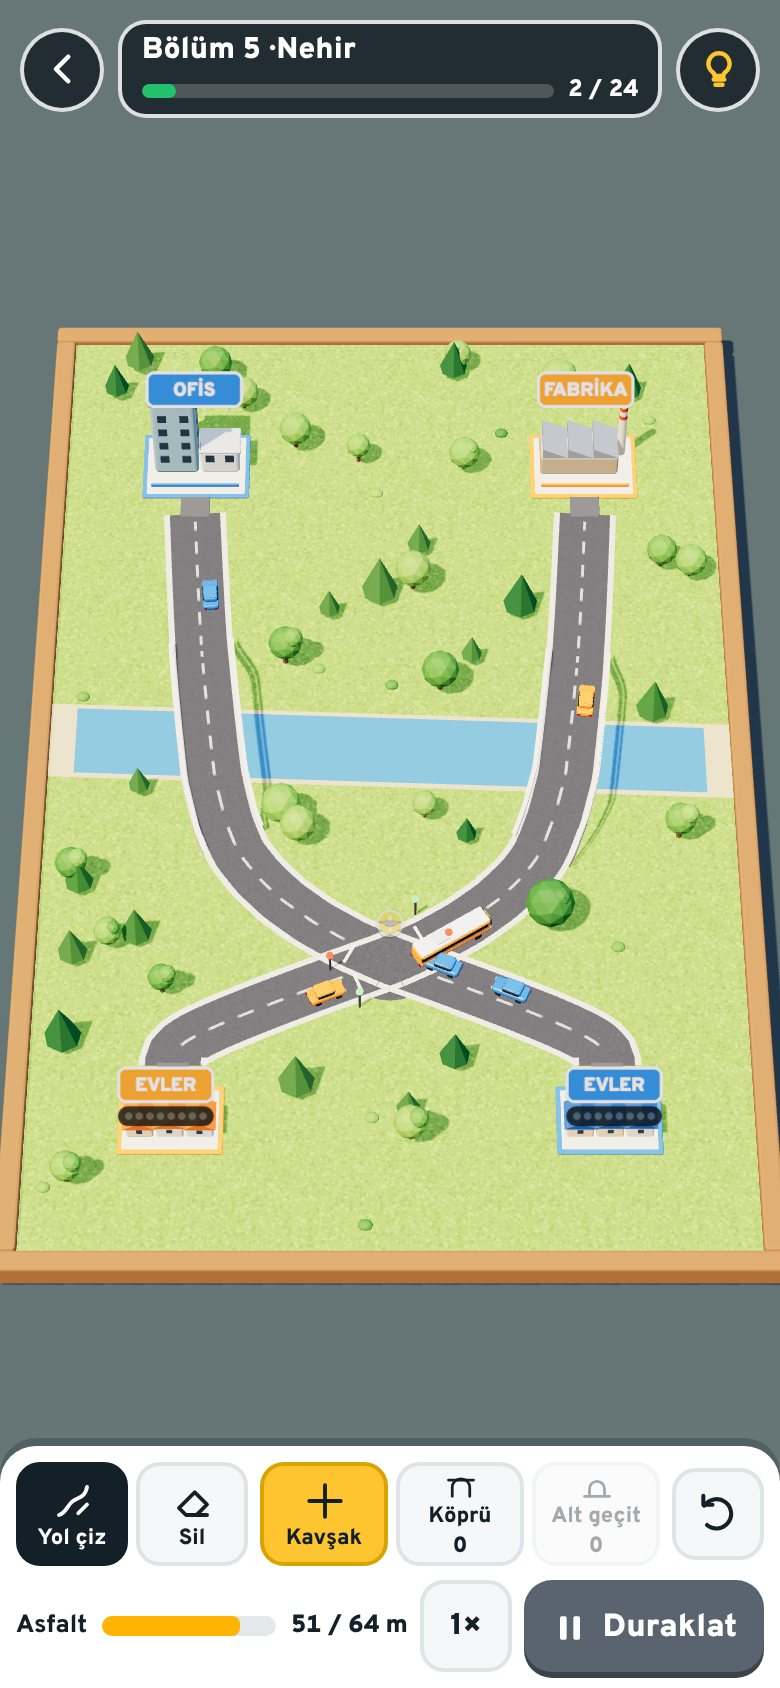
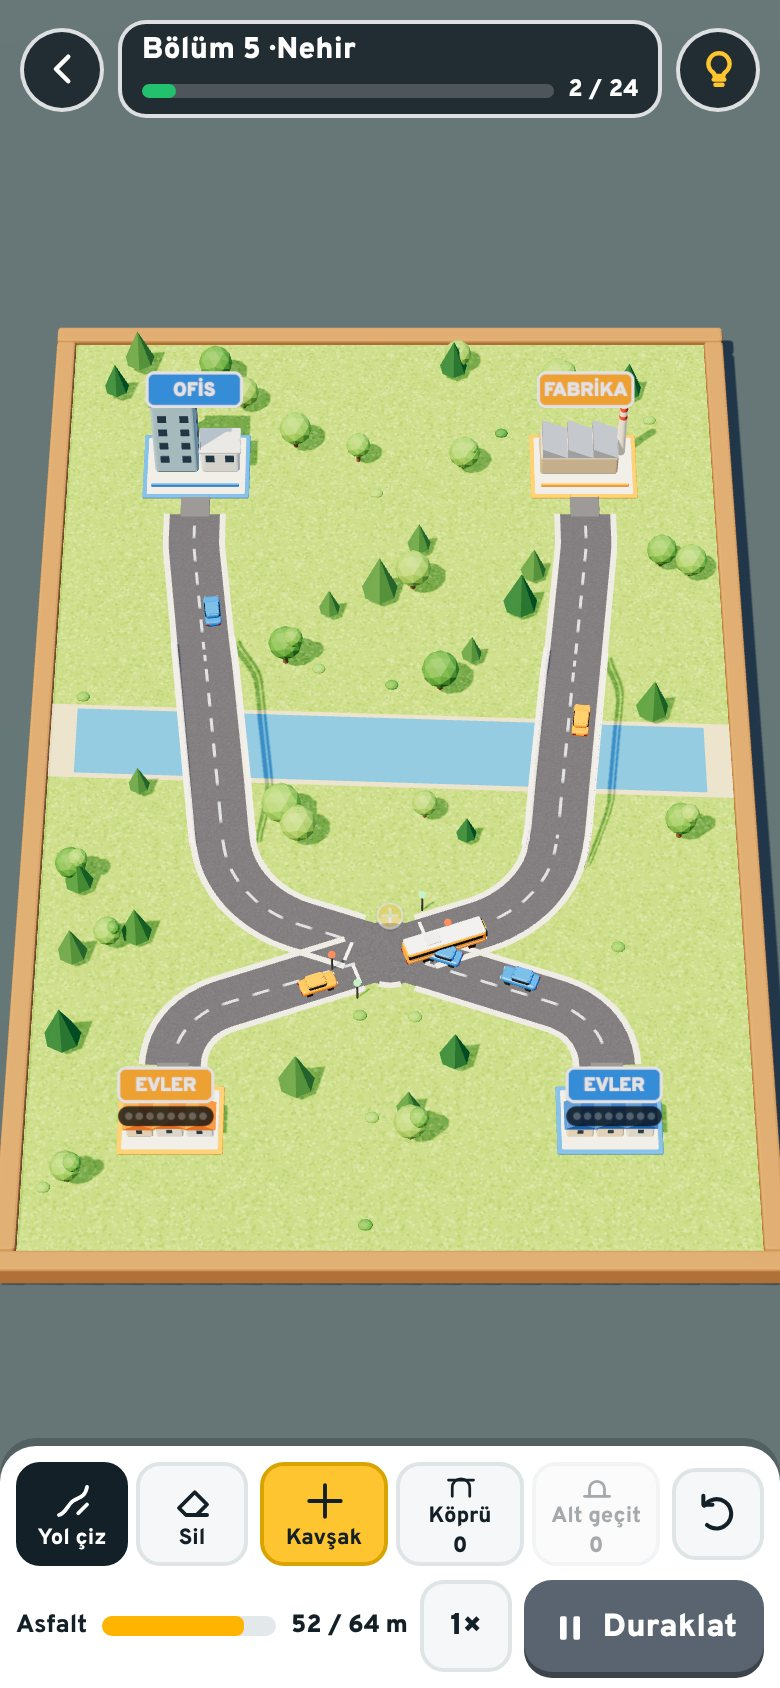
Bölümler: yollar gerçek yol gibi çizilir, kavşaklar temiz, saçma çizimler reddedilir
- Çizgi önce sadeleştirilir (parmak titremesi gider), kısa parçalar birleşir, her köşe
  teğet çember yayıyla yuvarlanır (yarıçap 1,8–3,5 m). Yol binadan dümdüz çıkar, binaya
  dümdüz girer; çıkış düzlüğü dönüşe yetecek kadar uzar.
- Reddedilen çizimler (nedeni ve yeri gösterilir): kendi üstünden geçen yol (ilmek),
  saç tokası gibi keskin viraj, öbür yolu ya da rayı 30°'den yatık kesen yol, yan yana
  çok yakın giden yollar.
- Kavşak çizimi: kaldırım ve orta çizgi kavşağın içine girmez, köşeler kaldırım kavisiyle
  biter, kavşak zemini düz asfalt.
- Hata: bölüm bitince gecikmeli açılan kazan/kaybet kartı başka bölüme geçilince yeni
  bölümün üstüne düşüp dokunuşları engelliyordu.
- Bölüm 8 çözüm yolu yeniden çizildi; kontrol betiğine yol kalitesi testleri eklendi.

Claude-Session: https://claude.ai/code/session_0156CvAogtVYziKRmLM3uGcM

Changed region(s): [[0.1846, 0.3081, 0.8308, 0.6469]]

diff --git a/ray-arasi/js/lv-net.js b/ray-arasi/js/lv-net.js
@@ -115,14 +115,74 @@
     const out = []; for (let i = 0; i < n; i++) out.push(at(st, (st.len * i) / (n - 1)));
     return out;
   }
-  LV.smoothStroke = function (raw, keepHead, keepTail) {
-    // keepHead/keepTail: baştaki/sondaki kaç nokta olduğu gibi kalsın (bina çıkışının düz kısmı)
+  // Yol tasarımı gibi: çizgi birkaç düz parçaya indirilir, her köşe çember yayıyla yuvarlanır (yarıçap R_MIN…R_PREF).
+  // headDir/tailDir: uç bir binaya bağlıysa yol o uçta binadan dümdüz çıkar. Köşeye yay sığmıyorsa .sharp = true.
+  const R_MIN = 1.8, R_PREF = 3.5, STUB = 1.2;
+  function fillet(V, fixedEnds) {
+    // V: köşe noktaları; dönüş: {pts, sharp}
+    const n = V.length;
+    if (n < 3) return { pts: V.slice(), sharp: false };
+    const leg = []; for (let i = 0; i < n - 1; i++) leg.push(Math.hypot(V[i + 1].x - V[i].x, V[i + 1].z - V[i].z));
+    const out = [V[0]]; let sharp = false;
+    // köşelerin dönüş açıları; aradaki bacak iki köşe arasında ihtiyaca göre paylaşılır
+    const TT = [0];
+    for (let i = 1; i < n - 1; i++) {
+      const d1x = (V[i].x - V[i - 1].x) / leg[i - 1], d1z = (V[i].z - V[i - 1].z) / leg[i - 1];
+      const d2x = (V[i + 1].x - V[i].x) / leg[i], d2z = (V[i + 1].z - V[i].z) / leg[i];
+      TT.push(Math.tan(Math.atan2(Math.abs(d1x * d2z - d1z * d2x), d1x * d2x + d1z * d2z) / 2));
+    }
+    TT.push(0);
+    const share = (j, side) => { const a = TT[j], b = TT[j + 1]; if (j === 0 || j === n - 2) return leg[j] * 0.95; return leg[j] * (side === 'a' ? a : b) / (a + b || 1); };
+    for (let i = 1; i < n - 1; i++) {
+      const d1x = (V[i].x - V[i - 1].x) / leg[i - 1], d1z = (V[i].z - V[i - 1].z) / leg[i - 1];
+      const d2x = (V[i + 1].x - V[i].x) / leg[i], d2z = (V[i + 1].z - V[i].z) / leg[i];
+      const cr = d1x * d2z - d1z * d2x, dt = d1x * d2x + d1z * d2z;
+      const th = Math.atan2(Math.abs(cr), dt);
+      if (th < 0.02) { out.push(V[i]); continue; }
+      const avail = Math.min(share(i - 1, 'b'), share(i, 'a'));
+      const tt = Math.tan(th / 2);
+      let R = Math.min(R_PREF, avail / tt);
+      if (R < R_MIN) { sharp = true; R = Math.max(0.6, R); }
+      const t = R * tt;
+      const A = { x: V[i].x - d1x * t, z: V[i].z - d1z * t };
+      const sg = cr > 0 ? 1 : -1;
+      const nx = -d1z * sg, nz = d1x * sg; // dönüş tarafına dik
+      const C = { x: A.x + nx * R, z: A.z + nz * R };
+      const a0 = Math.atan2(A.z - C.z, A.x - C.x);
+      const steps = Math.max(2, Math.ceil((th * R) / 0.15));
+      for (let k = 0; k <= steps; k++) { const a = a0 + sg * th * (k / steps); out.push({ x: C.x + Math.cos(a) * R, z: C.z + Math.sin(a) * R }); }
+    }
+    out.push(V[n - 1]);
+    return { pts: out, sharp };
+  }
+  LV.smoothStroke = function (raw, headDir, tailDir) {
     const thin = [raw[0]];
     for (const p of raw) if (Math.hypot(p.x - thin[thin.length - 1].x, p.z - thin[thin.length - 1].z) > 0.25) thin.push(p);
-    if (thin[thin.length - 1] !== raw[raw.length - 1]) thin.push(raw[raw.length - 1]);
-    let s = rdp(thin, 0.18);
-    s = chaikin(s, 3);
-    return resample(s, C.SP);
+    if (thin.length < 2 || thin[thin.length - 1] !== raw[raw.length - 1]) thin.push(raw[raw.length - 1]);
+    let best = null;
+    // önce az sadeleştir; köşeler sığmazsa daha çok sadeleştir (parmak titremesi ve gereksiz kıvrım gider)
+    for (const eps of [0.35, 0.6, 0.9, 1.3]) {
+      let V = rdp(thin, eps);
+      // binadan çıkış düzlüğü: sonraki köşeye dönüş için gerektiği kadar uzun (1,2–3,5 m)
+      const stubLen = (E, dir, P) => { const vx = P.x - E.x, vz = P.z - E.z, l = Math.hypot(vx, vz) || 1; const th = Math.acos(RA.clamp((vx * dir.x + vz * dir.z) / l, -1, 1)); return RA.clamp(R_MIN * Math.tan(th / 2) * 1.15 + 0.2, STUB, 3.5); };
+      if (headDir) { const E = V[0]; const rest = V.slice(1).filter((q) => Math.hypot(q.x - E.x, q.z - E.z) > STUB + 1.0); const L = stubLen(E, headDir, rest[0] || V[V.length - 1]); V = [E, { x: E.x + headDir.x * L, z: E.z + headDir.z * L }].concat(rest.filter((q) => Math.hypot(q.x - E.x, q.z - E.z) > L + 0.8)); }
+      if (tailDir) { const E = V[V.length - 1]; const rest = V.slice(0, -1).filter((q) => Math.hypot(q.x - E.x, q.z - E.z) > STUB + 1.0); const L = stubLen(E, tailDir, rest[rest.length - 1] || V[0]); V = rest.filter((q) => Math.hypot(q.x - E.x, q.z - E.z) > L + 0.8).concat([{ x: E.x + tailDir.x * L, z: E.z + tailDir.z * L }, E]); }
+      // çok kısa ara bacakları birleştir
+      for (let guard = 0; guard < 40 && V.length > 3; guard++) {
+        let mi = -1, ml = 1e9;
+        for (let i = 1; i < V.length - 2; i++) { if ((headDir && i === 1) || (tailDir && i === V.length - 2)) continue; const l = Math.hypot(V[i + 1].x - V[i].x, V[i + 1].z - V[i].z); if (l < ml) { ml = l; mi = i; } }
+        if (mi < 0 || ml > 1.0) break;
+        const m = { x: (V[mi].x + V[mi + 1].x) / 2, z: (V[mi].z + V[mi + 1].z) / 2 };
+        const keep1 = headDir && mi === 1, keep2 = tailDir && mi + 1 === V.length - 2;
+        if (keep1) V.splice(mi + 1, 1); else if (keep2) V.splice(mi, 1); else V.splice(mi, 2, m);
+      }
+      const r = fillet(V);
+      best = r;
+      if (!r.sharp) break;
+    }
+    const pts = resample(best.pts, C.SP);
+    pts.sharp = best.sharp;
+    return pts;
   };
 
   /* ================= ağı kur ================= */
@@ -186,6 +246,20 @@
       }
     }
 
+    // --- kendi üstünden geçen yol ---
+    for (const st of S) {
+      for (let i = 0; i < st.pts.length - 1; i++) for (let j = i + 3; j < st.pts.length - 1; j++) {
+        const a = st.pts[i], b = st.pts[i + 1], c = st.pts[j], d = st.pts[j + 1];
+        if (segX(a.x, a.z, b.x, b.z, c.x, c.z, d.x, d.z)) return fail('Yol kendi üstünden geçemez.', c.x, c.z);
+      }
+    }
+    // --- dar açıyla kesişen yollar ---
+    const angOk = (A, sa, B, sb) => { const ta = tan(A, sa), tb = tan(B, sb); return Math.abs(ta.x * tb.z - ta.z * tb.x) > 0.5; };
+    for (let i = 0; i < S.length; i++) for (let j = i + 1; j < S.length; j++) for (const x of intersections(S[i], S[j])) {
+      if (x.sa < 0.2 || x.sa > S[i].len - 0.2 || x.sb < 0.2 || x.sb > S[j].len - 0.2) continue;
+      if (!angOk(S[i], x.sa, S[j], x.sb)) return fail('Yollar çok dar açıyla kesişiyor; daha dik kes.', x.x, x.z);
+    }
+    for (const st of S) for (const r of rails) for (const x of intersections(st, r)) if (!angOk(st, x.sa, r, x.sb)) return fail('Yol rayı çok dar açıyla kesiyor; daha dik kes.', x.x, x.z);
     // --- yol-yol kesişimleri ---
     const crossings = []; // işaretler (dokununca türü değişir)
     const humps = new Map(S.map((s) => [s.id, []])); // köprü yükseltileri: {a, b} düz kısım
@@ -295,8 +369,8 @@
       let bad = 0;
       for (let s = 0.5; s < A.len - 0.5; s += 0.4) {
         const p = at(A, s);
-        if (near.some((q) => Math.hypot(q.x - p.x, q.z - p.z) < 1.9)) continue;
-        if (nearest(B, p.x, p.z).d < 1.15) { bad++; if (bad >= 2) return fail('Yollar üst üste biniyor; biraz aralık bırak.', p.x, p.z); }
+        if (near.some((q) => Math.hypot(q.x - p.x, q.z - p.z) < 3.2)) continue; // kesişimin hemen çevresi doğal olarak yakın
+        if (nearest(B, p.x, p.z).d < 1.5) { bad++; if (bad >= 2) return fail('Yollar birbirine çok yakın; biraz aralık bırak.', p.x, p.z); }
       }
     }
 
@@ -320,7 +394,7 @@
       n.kind = n.deg >= 3 ? 'j' : n.deg === 2 ? 'joint' : n.deg === 1 ? 'end' : 'none';
       if (n.deg >= 3) {
         const a = n.arms.map((r) => r.ang).sort((p, q) => p - q);
-        for (let k = 0; k < a.length; k++) { const d = k === a.length - 1 ? a[0] + Math.PI * 2 - a[k] : a[k + 1] - a[k]; if (d < 0.45) return fail('Yollar çok dar açıyla birleşiyor.', n.x, n.z); }
+        for (let k = 0; k < a.length; k++) { const d = k === a.length - 1 ? a[0] + Math.PI * 2 - a[k] : a[k + 1] - a[k]; if (d < 0.55) return fail('Yollar çok dar açıyla birleşiyor; daha dik bağla.', n.x, n.z); }
         if (n.deg > 5) return fail('Bir kavşakta en çok 5 yol birleşir.', n.x, n.z);
       }
     }

diff --git a/ray-arasi/js/lv-game.js b/ray-arasi/js/lv-game.js
@@ -32,6 +32,7 @@
     /* ---------- bölüm aç ---------- */
     open(id) {
       const def = LV.LEVELS.find((l) => l.id === id) || LV.LEVELS[0];
+      clearTimeout(this.endT); clearTimeout(this.hintT); // önceki bölümden bekleyen kart / ipucu yeni bölüme düşmesin
       this.level = LV.prep(def);
       this.strokes = []; this.choices = {}; this.nextId = 1; this.undoStack = [];
       this.started = false; this.running = false; this.speed = 1; this.ended = null;
@@ -74,14 +75,14 @@
       if (!raw || raw.length < 2) return false;
       raw = raw.map((p) => ({ x: RA.clamp(p.x, -LV.C.BX, LV.C.BX), z: RA.clamp(p.z, -LV.C.BZ, LV.C.BZ) }));
       const net = this.net;
-      const snapEnd = (p, isStart) => {
-        // bina girişi
+      const snapEnd = (p) => {
+        // bina girişi: yol binadan dümdüz çıkar
         let best = null, bd = 1.7;
         for (const bn of net.bNodes) { const d = Math.hypot(bn.x - p.x, bn.z - p.z); if (d < bd) { bd = d; best = bn; } }
         if (best) {
           if (best.deg > 0) return { err: 'Bu binanın yolu var; yeni yolu o yola bağla.' };
-          const b = best.bld; const E = { x: b.ex, z: b.ez }, F = { x: b.ex + b.ux * 0.9, z: b.ez + b.uz * 0.9 };
-          return { pts: isStart ? [E, F] : [F, E], b };
+          const b = best.bld;
+          return { pt: { x: b.ex, z: b.ez }, dir: { x: b.ux, z: b.uz }, b };
         }
         // var olan yol: ucu yakınsa uca, değilse üstündeki en yakın noktaya
         let q = null, qd = 1.1;
@@ -89,20 +90,17 @@
           for (const end of [0, st.len]) { const e = G.at(st, end); const d = Math.hypot(e.x - p.x, e.z - p.z) - 0.45; if (d < qd) { q = e; qd = d; } }
           const n = G.nearest(st, p.x, p.z); if (n.d < qd) { qd = n.d; q = { x: n.x, z: n.z }; }
         }
-        if (q) return { pts: [q] };
-        return { pts: null };
+        return { pt: q };
       };
-      const a = snapEnd(raw[0], true), b = snapEnd(raw[raw.length - 1], false);
+      const a = snapEnd(raw[0]), b = snapEnd(raw[raw.length - 1]);
       if (a.err || b.err) { this.toast(a.err || b.err, true); RA.audio.play('denied'); return false; }
       if (a.b && b.b && a.b === b.b) return false;
-      let mid = raw.slice(1, -1);
+      const head = a.pt || raw[0], tail = b.pt || raw[raw.length - 1];
       // yapışan ucun yakınındaki ham noktaları at (kıvrım olmasın)
-      const head = a.pts || [raw[0]], tail = b.pts || [raw[raw.length - 1]];
-      const h0 = head[head.length - 1], t0 = tail[0];
-      mid = mid.filter((p) => Math.hypot(p.x - h0.x, p.z - h0.z) > 0.7 && Math.hypot(p.x - t0.x, p.z - t0.z) > 0.7);
-      let pts = LV.smoothStroke(head.concat(mid, tail));
-      // uçlar tam yapışsın
-      pts[0] = head[0]; pts[pts.length - 1] = tail[tail.length - 1];
+      const mid = raw.slice(1, -1).filter((p) => Math.hypot(p.x - head.x, p.z - head.z) > 0.8 && Math.hypot(p.x - tail.x, p.z - tail.z) > 0.8);
+      const pts = LV.smoothStroke([head].concat(mid, [tail]), a.dir || null, b.dir || null);
+      if (pts.sharp) { this.toast('Viraj çok keskin: daha geniş bir kavisle çiz.', true); RA.audio.play('denied'); return false; }
+      pts[0] = head; pts[pts.length - 1] = tail;
       const st = G.stroke(this.nextId, pts);
       if (st.len < 1.2) return false;
       const choices = Object.assign({}, this.choices);
@@ -209,7 +207,7 @@
       this.toast(keep ? 'Yolların duruyor. Düzelt ve ▶ ile yeniden başlat.' : 'Bölüm baştan başladı.');
     }
     showHint() {
-      const paths = this.level.solution.map(([, raw]) => LV.smoothStroke(raw.map(([x, z]) => ({ x, z }))));
+      const paths = this.level.solution.map(([, raw]) => { const b0 = this.level.blds.find((b) => Math.hypot(b.ex - raw[0][0], b.ez - raw[0][1]) < 0.4), b1 = this.level.blds.find((b) => Math.hypot(b.ex - raw[raw.length - 1][0], b.ez - raw[raw.length - 1][1]) < 0.4); return LV.smoothStroke(raw.map(([x, z]) => ({ x, z })), b0 && { x: b0.ux, z: b0.uz }, b1 && { x: b1.ux, z: b1.uz }); });
       this.view.hint(paths);
       this.toast('İpucu: ' + this.level.tip);
       clearTimeout(this.hintT); this.hintT = setTimeout(() => this.view.hint(null), 6000);
@@ -251,10 +249,10 @@
         const stars = 1 + (c2 ? 1 : 0) + (c3 ? 1 : 0);
         LV.progress.set(this.level.id, stars);
         RA.audio.play('record');
-        setTimeout(() => this.showCard('win', { stars, c2, c3, len, peak }), 700);
+        this.endT = setTimeout(() => this.showCard('win', { stars, c2, c3, len, peak }), 700);
       } else {
         RA.audio.play('end');
-        setTimeout(() => this.showCard('lose', h), 700);
+        this.endT = setTimeout(() => this.showCard('lose', h), 700);
       }
     }
     hud(force) {

diff --git a/ray-arasi/js/lv-view.js b/ray-arasi/js/lv-view.js
@@ -246,7 +246,9 @@
         const path = new RA.Path(LV.geo.slicePts(e.st, e.s0, e.s1));
         const yf = (s) => e.y(e.s0 + (s / path.length) * e.len);
         stat.add(new T.Mesh(ribbonY(path, -0.78, 0.78, yf, 0.045, 0.2), m.asphalt));
-        for (const x of [-0.86, 0.86]) stat.add(new T.Mesh(ribbonY(path, x - 0.09, x + 0.09, yf, 0.06, 0.25), m.curb));
+        // kaldırım kavşağın içine girmez
+        const c0 = e.ta, c1 = path.length - e.tb;
+        if (c1 - c0 > 0.2) { const cp = path.slice(c0, c1), cy = (s) => yf(c0 + s); for (const x of [-0.86, 0.86]) stat.add(new T.Mesh(ribbonY(cp, x - 0.09, x + 0.09, cy, 0.06, 0.25), m.curb)); }
         // orta çizgi (kavşak ağızlarında kesik)
         const s0 = e.ta > 0 ? e.ta : 0.3, s1 = path.length - (e.tb > 0 ? e.tb : 0.3);
         if (s1 - s0 > 0.6) { const dm = new T.Mesh(ribbonY(path.slice(s0, s1), -0.045, 0.045, (s) => yf(s0 + s), 0.052, 0.2, 1 / 0.9), m.dash); dm.renderOrder = 3; root.add(dm); }
@@ -255,8 +257,20 @@
       // kavşak ve birleşme yerleri
       for (const n of net.nodes) {
         if (n.kind === 'j' || n.kind === 'joint') {
-          const r = n.kind === 'j' ? 1.32 : 0.95;
-          const pad = mesh(RA.geo('jpad' + r, () => { const c = new T.CircleGeometry(r, 28); c.rotateX(-Math.PI / 2); return c; }), m.asphalt, n.x, 0.05, n.z, false); pad.receiveShadow = true; stat.add(pad);
+          // kavşak zemini: kolların arasını dolduran düz asfalt
+          const r = n.kind === 'j' ? LV.C.JR + 0.02 : 0.9;
+          const pad = mesh(RA.geo('jpad' + r, () => { const c = new T.CircleGeometry(r, 32); c.rotateX(-Math.PI / 2); return c; }), m.asphalt, n.x, 0.05, n.z, false); pad.receiveShadow = true; stat.add(pad);
+          // kolların arasındaki köşeler: kaldırım kavisi
+          if (n.kind === 'j') {
+            const angs = n.arms.map((a) => a.ang).sort((p, q) => p - q);
+            for (let k = 0; k < angs.length; k++) {
+              const a0 = angs[k], a1 = k === angs.length - 1 ? angs[0] + Math.PI * 2 : angs[k + 1];
+              const g0 = a0 + Math.asin(Math.min(1, 0.86 / (LV.C.JR + 0.02))), g1 = a1 - Math.asin(Math.min(1, 0.86 / (LV.C.JR + 0.02)));
+              if (g1 - g0 < 0.05) continue;
+              const pts = []; for (let t = 0; t <= 8; t++) { const a = g0 + ((g1 - g0) * t) / 8; pts.push({ x: n.x + Math.cos(a) * (LV.C.JR + 0.02), z: n.z + Math.sin(a) * (LV.C.JR + 0.02) }); }
+              stat.add(new T.Mesh(ribbonY(new RA.Path(pts), -0.09, 0.09, () => 0, 0.06, 0.1), m.curb));
+            }
+          }
         }
         if (n.kind === 'j') {
           // her kolda dur çizgisi

diff --git a/ray-arasi/js/lv-data.js b/ray-arasi/js/lv-data.js
@@ -83,7 +83,7 @@
       rails: [{ pts: [[-10.8, 5], [10.8, 5]], every: 11, cars: 3, first: 3 }],
       houses: [{ x: -6, z: 12.5, dir: 'N', color: 'or' }, { x: 6, z: 12.5, dir: 'N', color: 'bl' }],
       dests: [{ x: 6, z: -12, dir: 'S', color: 'or', type: 'fabrika' }, { x: -6, z: -12, dir: 'S', color: 'bl', type: 'hastane' }],
-      solution: [['tunnel', [[-6, 10.8], [-6, 1.5], [0, 0.5], [6, -1], [6, -10.1]]], ['road', [[6, 10.8], [6.8, 3], [3, -0.8], [-6, -1.6], [-6, -10.1]]]],
+      solution: [['tunnel', [[-6, 10.8], [-6, 2], [5.5, -2], [6, -10.1]]], ['road', [[6, 10.8], [6, 2], [-5.5, -2], [-6, -10.1]]]],
     },
     {
       id: 9, name: 'Göl', goal: 40, spawn: 2.5, budget: 80, star2: 70, bridges: 1, tunnels: 1,

diff --git a/ray-arasi/js/app.js b/ray-arasi/js/app.js
@@ -65,6 +65,7 @@
 
     showScreen(name) { ['menu', 'ws', 'lv'].forEach((s) => { $(s).hidden = s !== name; }); }
     showMenu() {
+      if (this.lv) clearTimeout(this.lv.endT);
       this.state = 'menu';
       this.showScreen('menu');
       this.stage.dataset.mode = '';

diff --git a/ray-arasi/BENIOKU.md b/ray-arasi/BENIOKU.md
@@ -9,8 +9,10 @@ köprü ya da alt geçit olur; hangisi olacağına sen karar verirsin. Bölüm b
 1. Ana ekrandan bir **bölüm** seç. Açılan kartta hedef yazar (ör. *30 araç ulaştır*) ve elindeki malzeme: asfalt
    (metre), köprü ve alt geçit hakkı.
 2. **Yol çiz** seçiliyken parmağını bir evin önündeki kesik çizgili halkadan başlatıp aynı renkteki iş yerinin önüne
-   kadar sürükle. Çizgi kare kare değil, istediğin eğriyle çizilir ve yumuşatılır. Uçları binanın girişine ya da
-   yakındaki bir yola kendiliğinden yapışır: bir yolu başka bir yolun ortasına bağlarsan orada kavşak olur.
+   kadar sürükle. Çizgi kare kare değil, istediğin eğriyle çizilir; gerçek yol tasarımı gibi düz parçalara ve en az
+   1,8 m yarıçaplı virajlara dönüştürülür (parmak titremesi silinir). Yol binadan dümdüz çıkar, binaya dümdüz girer.
+   Uçları binanın girişine ya da yakındaki bir yola kendiliğinden yapışır: bir yolu başka bir yolun ortasına
+   bağlarsan orada kavşak olur.
 3. **▶ Başlat**'a bas. Evlerden aynı renkte araçlar çıkar, iş yerine girip kaybolur. Üstteki çubuk kaç aracın
    ulaştığını gösterir.
 4. Bir evin üstündeki noktalar bekleyen kişileri gösterir. **Bir ev 8 kişiyi bekletirse kaybedersin.** Trafik
@@ -39,7 +41,9 @@ köprü ya da alt geçit olur; hangisi olacağına sen karar verirsin. Bölüm b
 
 - Köprünün ve alt geçidin iki yanında rampa için yer olmalı; rampanın üstünde kavşak olamaz.
 - Bir binaya tek yol bağlanır; ikinci yolu ilk yola bağla.
-- Kavşaklar birbirine çok yakın olamaz, yollar çok dar açıyla birleşemez, yollar üst üste binemez.
+- Yol kendi üstünden geçemez (ilmek yapamaz); saç tokası gibi keskin virajlar olmaz.
+- Yollar birbirini ya da rayı çok yatık (30°'den dar) kesemez, çok dar açıyla birleşemez.
+- Kavşaklar birbirine çok yakın olamaz; yollar birbirine çok yakın (yan yana) gidemez.
 - Yol binaların içinden geçemez, suyun içinde bitemez, tahtanın dışına çıkamaz.
 - Toplam yol uzunluğu asfalt miktarını geçemez.
 
@@ -272,7 +276,8 @@ Ekran görüntüleri `test/cikti/` klasörüne yazılır.
 - Uçaklar taksi yolunda gidecekleri yolun tamamını (kapıya ya da piste kadar) tek seferde ayırır; tek şeritli
   taksi yollarında karşılıklı kilitlenmez. Kule kalkışları sıraya göre verir, uzun bekleyen kalkış varken iniş
   izni vermez. Kapısı kalmayan uçak yeni kapı arar, yoksa tekrar kalkar.
-- Bölümlerde çizilen yol yumuşatılır (Ramer–Douglas–Peucker sadeleştirme + Chaikin yumuşatma) ve her değişiklikte
+- Bölümlerde çizilen yol önce sadeleştirilir (Ramer–Douglas–Peucker), kısa parçalar birleştirilir, sonra her köşe
+  teğet çember yayıyla yuvarlanır (yarıçap 1,8–3,5 m; binadan çıkış düzlüğü gerektiği kadar uzar). Yol her değişiklikte
   bütün ağ çizgilerden yeniden kurulur: kesişimler bulunur, kavşaklar bölünür, köprü yükseklikleri (rampalı) hesaplanır,
   şeritler ve kavşak içi dönüş eğrileri üretilir. Kurala uymayan çizim uygulanmaz.
 - Gereksinim: WebGL destekleyen güncel bir tarayıcı (Chrome, Safari, Firefox, Edge).
